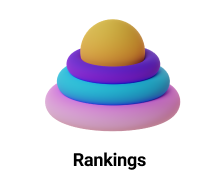
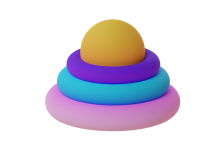
Rankings

diff --git a/src/screens/RankingsScreen/index.tsx b/src/screens/RankingsScreen/index.tsx
@@ -1,12 +1,45 @@
 import React from 'react';
-import {View, Text} from 'react-native';
+import {View, Text, Image, FlatList} from 'react-native';
+import styles from './styles';
+import UserRangeItem from '../../components/UserRankingItem';
 
-const RankingsScreen = (props) => {
+const image =  require('../../../assets/images/Saly-20.png');
+
+const portofolioCoins = [{
+    id: '1',
+    name: 'Virtual EURO',
+    image: 'https://image.freepik.com/free-vector/cryptocurrency-logo-template_8163-114.jpg',
+    netWorth: 100000,
+}, {
+    id: '2',
+    name: 'Bitcoin',
+    image: 'https://image.freepik.com/free-vector/cryptocurrency-logo-template_8163-114.jpg',
+    netWorth: 75994,
+}, {
+    id: '4',
+    name: 'Etherium',
+    image: 'https://image.freepik.com/free-vector/cryptocurrency-logo-template_8163-114.jpg',
+    netWorth: 80153,
+}]
+
+const PortofolioScreen = () => {
     return (
-        <View style={{flex: 1, justifyContent: 'center', alignItems: 'center'}}>
-            <Text>RankingsScreen Component</Text>
+        <View style={styles.root}>
+            <FlatList 
+                showsVerticalScrollIndicator={false}
+                style={{width: '100%'}}
+                data={portofolioCoins}
+                renderItem={({item, index}) => <UserRangeItem user={item} place={index + 1} />}
+                ListHeaderComponentStyle={{alignItems: 'center'}}
+                ListHeaderComponent={() => (
+                    <>
+                        <Image style={styles.image} source={image} />
+                        <Text style={styles.label}>Rankings</Text>
+                    </>
+                )}
+            />
         </View>
     );
 };
 
-export default RankingsScreen;
+export default PortofolioScreen;

diff --git a/src/components/UserRankingItem/index.tsx b/src/components/UserRankingItem/index.tsx
@@ -1,0 +1,43 @@
+import React from 'react';
+import {View, Text, Image} from 'react-native';
+import styles from './style';
+// import image from '';
+
+const image =  require('../../../assets/images/Saly-10.png');
+
+export interface UserRankingItemProps {
+    user: {
+        image: string,
+        name: string,
+        netWorth: number
+    },
+    place: number,   
+}
+
+const UserRankingItem = (props: UserRankingItemProps) => {
+    const {
+        user: {
+            image,
+            name,
+            netWorth
+        },
+        place
+
+    } = props;
+    return (
+        <View style={styles.root}>
+            <View style={styles.left}>
+                <Text style={styles.place}>{place}</Text>
+                <Image style={styles.image} source={{ uri: image}} />
+                <View>
+                    <Text style={styles.name}>{name}</Text>
+                </View>
+            </View>
+            <View style={{alignItems: 'flex-end'}}>
+                <Text style={styles.name}>€{netWorth}</Text>
+            </View>
+        </View>
+    );
+};
+
+export default UserRankingItem;

diff --git a/src/components/UserRankingItem/style.ts b/src/components/UserRankingItem/style.ts
@@ -1,0 +1,39 @@
+import { StyleSheet } from 'react-native';
+
+const styles = StyleSheet.create({
+  root: {
+    flexDirection: 'row',
+    justifyContent: 'space-between',
+    alignItems: 'center',
+    height: 50,
+    marginVertical: 10,
+  },
+  image: {
+    height: 50,
+    width: 50,
+    marginRight: 10,
+    borderRadius: 50,
+  },
+  left: {
+    flexDirection: 'row',
+    alignItems: 'center',
+  },
+  name: {
+    fontWeight: 'bold',
+    marginBottom: 5,
+  },
+  value: {
+    fontSize: 18,
+    fontWeight: '600',
+    marginBottom: 5,
+  },
+  symbol: {
+    color: '#6b6b6b',
+  },
+  place: {
+    fontSize: 18,
+    width: 20,
+  },
+});
+
+export default styles;

diff --git a/src/screens/RankingsScreen/styles.ts b/src/screens/RankingsScreen/styles.ts
@@ -1,0 +1,20 @@
+import { StyleSheet } from 'react-native';
+
+const styles = StyleSheet.create({
+  root: {
+    flex: 1,
+    alignItems: 'center',
+    padding: 20,
+    backgroundColor: 'white',
+  },
+  image: {
+    height: 175,
+    resizeMode: "contain",
+  },
+  label: {
+    fontSize: 18,
+    fontWeight: 'bold',
+  },
+});
+
+export default styles;
